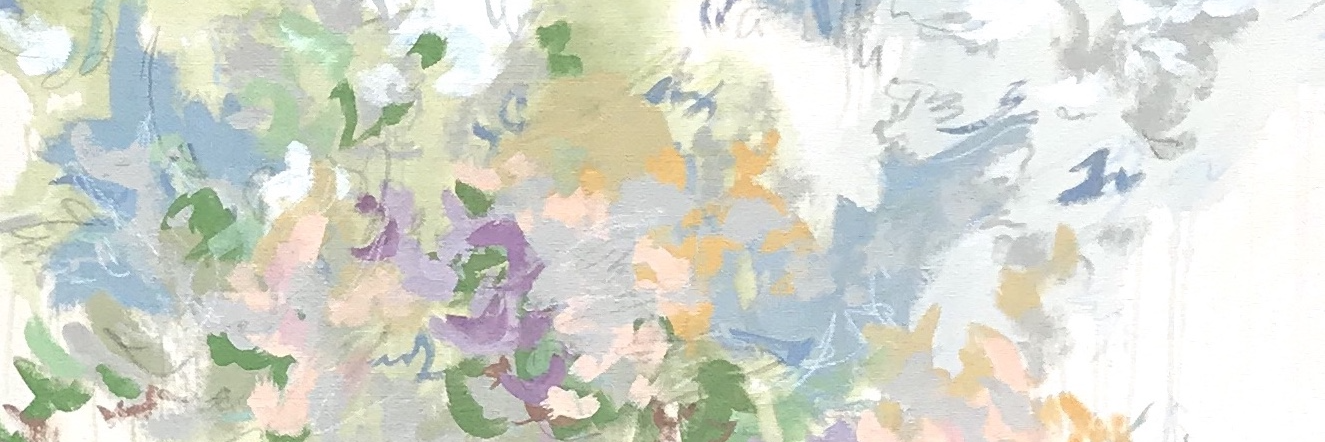
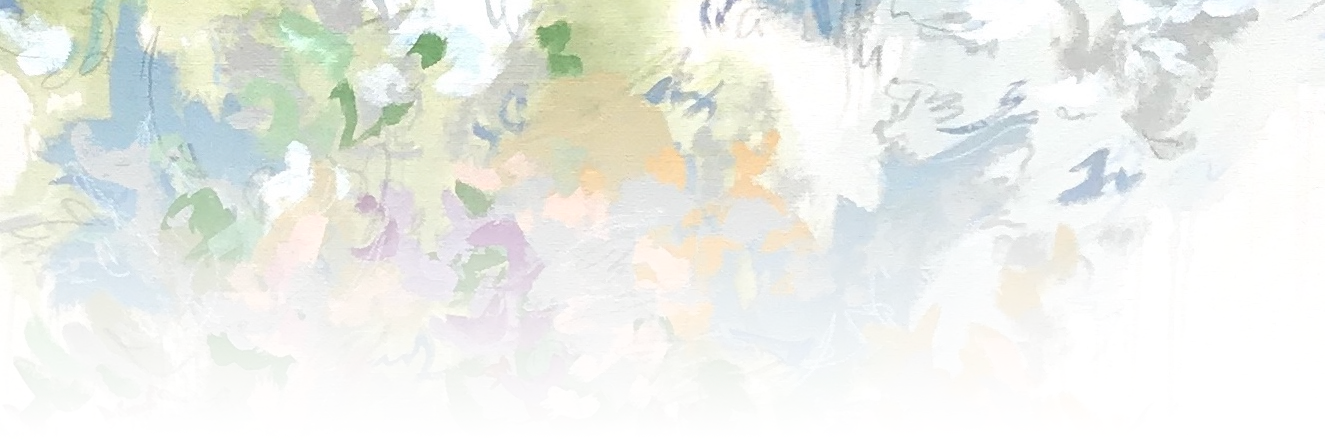
some changes

diff --git a/index.html b/index.html
@@ -12,7 +12,6 @@
         <div id='top' class='header-background'>
             <img class='header-background-image' src='./large-header.png' alt='header background' />
             <img class='header-background-image-small' src='./small-header.png' alt='header background' />
-            <div class='gradient'></div>
         </div>
         
         
@@ -65,12 +64,16 @@
                 <p class='tech-item-name'>Node</p>
             </div>
             <div class='scroll-item'>
-                <img class='tech-icon' src='./bootstrap-icon.png' alt='bootstrap icon' />
-                <p class='tech-item-name'>Bootstrap</p>
-            </div>
-            <div class='scroll-item'>
                 <img class='tech-icon' src='./python-icon.png' alt='python icon' />
                 <p class='tech-item-name'>Python</p>
+            </div>
+            <div class='scroll-item'>
+                <img class='tech-icon' src='./postgre-sql-logo.png' alt='postgre sql logo'>
+                <p class='tech-item-name'>Postgre SQL</p>
+            </div>
+            <div class='scroll-item'>
+                <img class='tech-icon' src='./bootstrap-icon.png' alt='bootstrap icon' />
+                <p class='tech-item-name'>Bootstrap</p>
             </div>
             <div class='scroll-item'>
                 <img class='tool-icon' src='./vs-code-icon.png' alt='vs code icon'>
@@ -79,6 +82,10 @@
             <div class='scroll-item'>
                 <img class='tool-icon' src='./postman-icon.png' alt='postman icon'>
                 <p class='tech-item-name'>Postman</p>
+            </div>
+            <div class='scroll-item'>
+                <img class='tool-icon' src='./postico-logo.png' alt='postico icon'>
+                <p class='tech-item-name'>Postico</p>
             </div>
             <div class='scroll-item'>
                 <img class='tool-icon' src='./photoshop-icon.png' alt='photoshop icon'>

diff --git a/style.css b/style.css
@@ -207,7 +207,7 @@ body {
     padding: 0.25em 1em;
     margin: 1rem;
     border-radius: 0.25rem;
-    width: 7em;
+    width: auto;
 }
 
 .tech-item-logo {
@@ -254,7 +254,9 @@ body {
 }
 
 .tech-item-name {
-    width: 5em;
+    width: 6em;
+    text-align: center;
+    margin-left: 0.5em;
 }
 
 
@@ -271,12 +273,15 @@ body {
 }
 
 .tools-item {
-    color:whitesmoke;
-    background-color: gray;
-    padding: 1rem;
+    display: flex;
+    flex-direction: row;
+    align-items: center;
+    color:rgb(100, 100, 100);
+    background-color: rgb(255, 255, 255);
+    padding: 0.25em 1em;
     margin: 1rem;
     border-radius: 0.25rem;
-    box-shadow: 0rem 0rem 0.5rem gray;
+    width: 10em;
 }
 
 /*------- desc -----------*/
